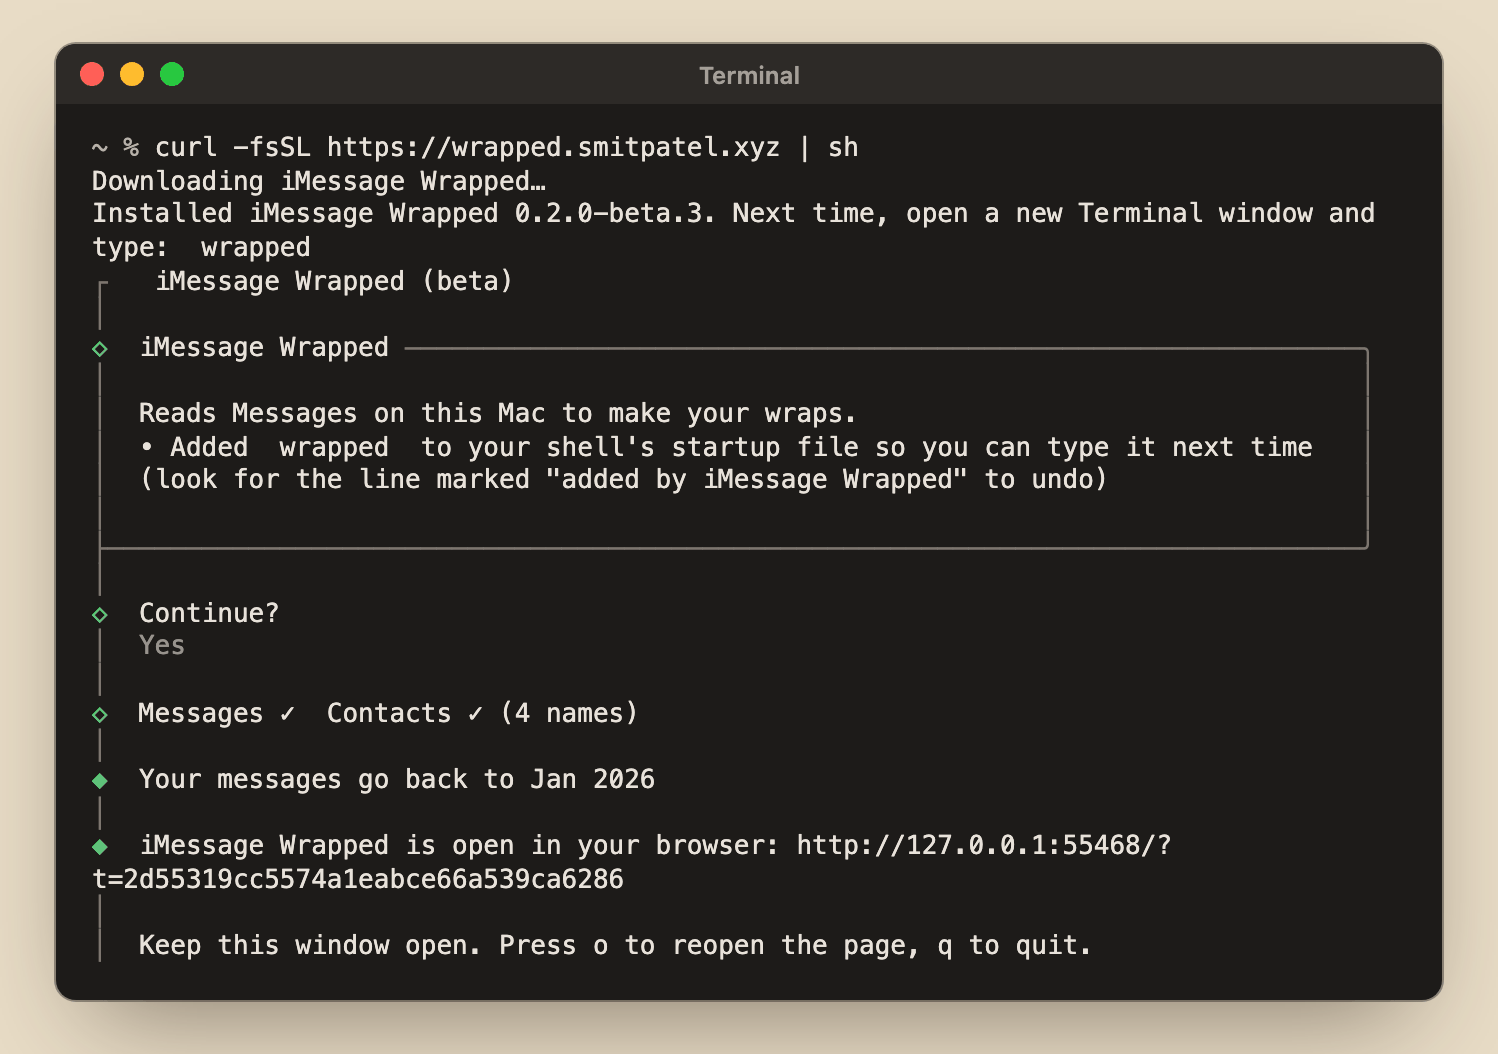
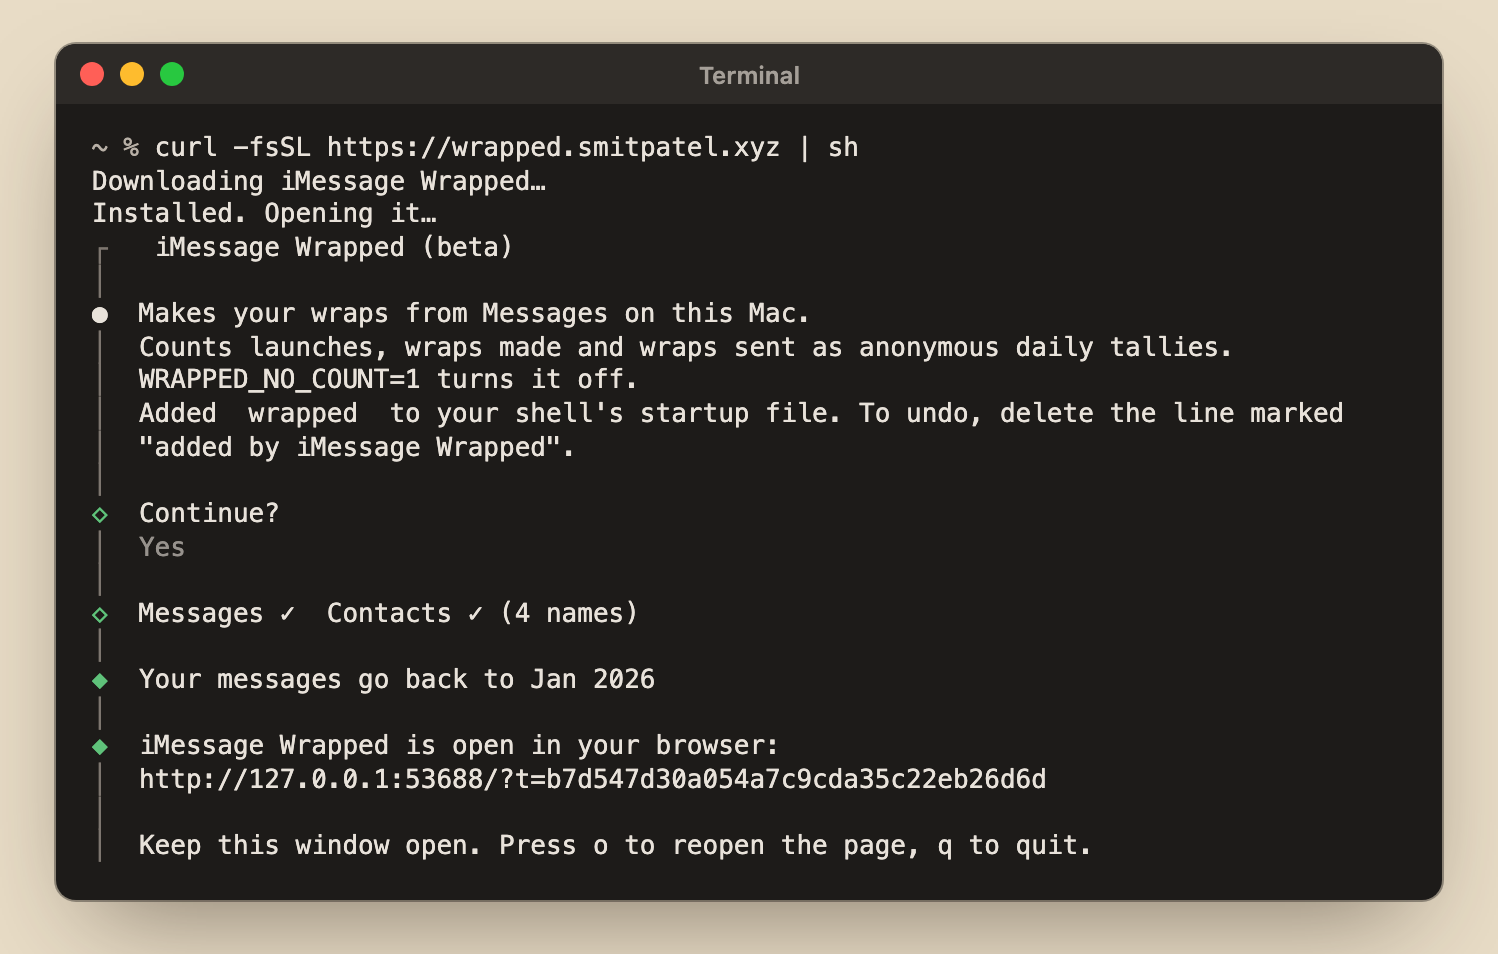
docs: launch media for beta.9

diff --git a/README.md b/README.md
@@ -31,7 +31,7 @@
 
 <p align="center">
   <a href="https://wrapped.smitpatel.xyz/#demo">
-    <img src="docs/images/demo.gif" width="320" alt="A phone tapping through the wrap of a made-up group chat called Poker Night: 22,938 messages on a taped polaroid with 'That's about 71 texts a day', Peak month May with 'May was the chat's yap era' and 'what happened on May 21?' by the busiest day, everyone's texting style under 'Jordan writes essays, the rest of you text', three greatest-hit quotes, one opened to show the conversation around Alex's 'engrave sam's name on it now, save time' with the quote lifted out, a stamped Comedian award for Sam Rivera, and the 'our 2026 in texts' summary card to save.">
+    <img src="docs/images/demo.gif" width="320" alt="A phone tapping through the wrap of a made-up group chat called Poker Night: 22,938 messages on a taped polaroid with 'That's about 71 texts a day', Peak month May with 'May was the chat's yap era' and its busiest day, May 21, everyone's texting style under 'Jordan writes essays, the rest of you text', three greatest-hit quotes, one opened to show the conversation around Alex's 'engrave sam's name on it now, save time' with the quote lifted out, a stamped Comedian award for Sam Rivera, who 'made the chat laugh 305 times', and the 'our 2026 in texts' summary card to save. A 'Try it yourself' button sits at the bottom of each page.">
   </a>
   <br>
   <sub>Poker Night, a made-up group chat, tapped through on a phone. <a href="https://wrapped.smitpatel.xyz/#demo">Open the demo</a>.</sub>
@@ -57,7 +57,7 @@ your full history is on the Mac. You don't need Node, Homebrew or anything else.
 need a phone or a browser to watch.
 
 <p align="center">
-  <img src="docs/images/install.png" width="720" alt="Terminal: the curl line is pasted, the installer prints 'Downloading iMessage Wrapped…' and 'Installed iMessage Wrapped 0.2.0-beta.3', then the program shows a welcome note saying it reads Messages on this Mac and added wrapped to the shell's startup file, asks 'Continue?', reads Messages and Contacts, says 'Your messages go back to Jan 2026', then 'iMessage Wrapped is open in your browser' with a link on 127.0.0.1, and 'Keep this window open. Press o to reopen the page, q to quit.'">
+  <img src="docs/images/install.png" width="720" alt="Terminal: the curl line is pasted, the installer prints 'Downloading iMessage Wrapped…' and 'Installed. Opening it…', then the program shows a welcome note: it makes your wraps from Messages on this Mac, counts launches, wraps made and wraps sent as anonymous daily tallies (WRAPPED_NO_COUNT=1 turns it off), and added wrapped to the shell's startup file. It asks 'Continue?', reads Messages and Contacts (4 names), says 'Your messages go back to Jan 2026', then 'iMessage Wrapped is open in your browser' with a link on 127.0.0.1, and 'Keep this window open. Press o to reopen the page, q to quit.'">
   <br>
   <sub>The program's real output, run on a made-up Messages database. The rest happens in your browser.</sub>
 </p>
@@ -98,7 +98,7 @@ and is only used when your chats back it up (for example, friends greet you by i
 it keeps "You".
 
 <p align="center">
-  <img src="docs/images/send.png" width="720" alt="The wrap page for Poker Night: a phone-sized preview of the wrap on the left, open on its first page. Beside it, 'Group chat · 2026 so far', the title, '22,938 messages · 6 people', the Send to group chat button with '✓ Link copied · Messages is open, pick your group and send' under it, then 'Now post yours' with a small share card, Save image, Copy image and Make another.">
+  <img src="docs/images/send.png" width="720" alt="The wrap page for Poker Night: a phone-sized preview of the wrap on the left, open on its first page with 22,938 messages and 'That's about 71 texts a day'. Beside it, 'Group chat · 2026 so far', the title, '22,938 messages · 6 people', the Send to group chat button with '✓ Link copied · Messages is open, pick your group and send' under it, and a 'Bonus: make a card about your own year →' link.">
   <br>
   <sub>The wrap page on your Mac, just after Send.</sub>
 </p>
